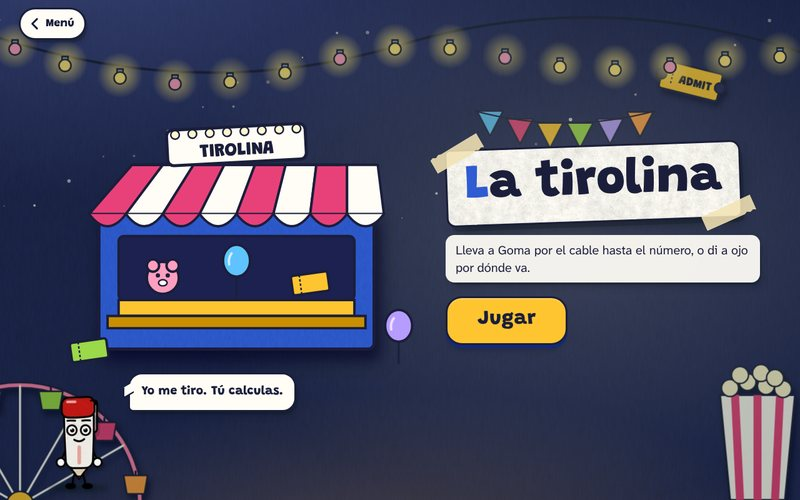
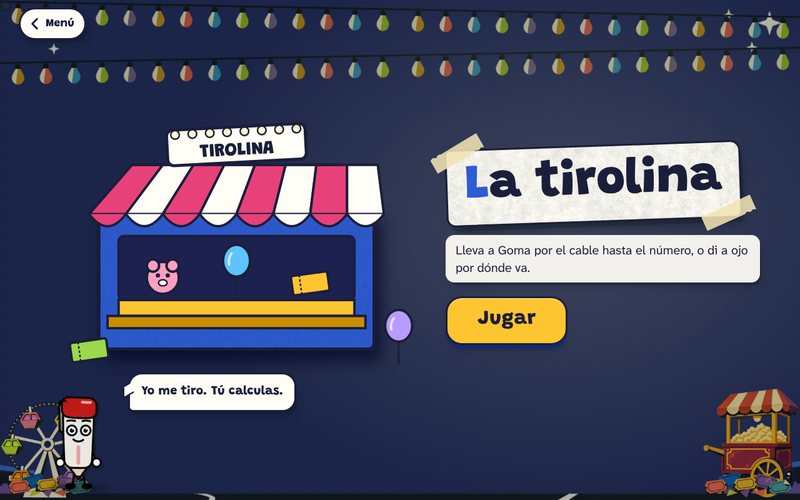
Feria de Otoño con las ilustraciones de ChatGPT: fondo nocturno por capas, peluches de premio y estantería, cuatro casetas ilustradas y Goma señalando
Claude-Session: https://claude.ai/code/session_01QUDmSgHLXgaRdHN8Km8PUg

Changed region(s): [[0.0, 0.0, 1.0, 0.21], [0.0, 0.72, 1.0, 1.0], [0.5938, 0.21, 0.8125, 0.3]]

diff --git a/public/juegos/motores/feria.css b/public/juegos/motores/feria.css
@@ -1,14 +1,21 @@
 /* =====================================================================================
    La Feria de Otoño · casetas de cartulina en el patio del cole, de noche
    ===================================================================================== */
-.fondo-escena.feria{background-color:#23285c;background-image:
-  radial-gradient(90% 70% at 50% 120%,rgba(255,180,90,.35),rgba(255,180,90,0) 60%),
-  radial-gradient(120% 90% at 10% -10%,rgba(140,150,255,.35),rgba(140,150,255,0) 55%),
-  url('tex/cartulina.webp');background-size:100% 100%,100% 100%,256px 256px;background-blend-mode:normal,normal,multiply}
+.fondo-escena.feria{background:#23285c url('feria/fondo-h.webp') center/cover;overflow:hidden}
+.capa-fer{position:absolute;left:0;right:0;background-repeat:no-repeat;background-size:100% 100%}
+.capa-fer.arriba{top:0;aspect-ratio:1920/208;background-image:url('feria/arriba-h-apagada.webp')}
+.capa-fer.arriba.luz{background-image:url('feria/arriba-h-encendida.webp');animation:luz-fer 3.6s ease-in-out infinite}
+.capa-fer.abajo{bottom:0;aspect-ratio:1920/270;background-image:url('feria/abajo-h.webp')}
+@media (orientation:portrait){
+  .fondo-escena.feria{background-image:url('feria/fondo-v.webp')}
+  .capa-fer.arriba{aspect-ratio:1080/195;background-image:url('feria/arriba-v-apagada.webp')}
+  .capa-fer.arriba.luz{background-image:url('feria/arriba-v-encendida.webp')}
+  .capa-fer.abajo{aspect-ratio:1080/257;background-image:url('feria/abajo-v.webp')}
+}
+@keyframes luz-fer{0%,100%{opacity:1}12%{opacity:.25}16%{opacity:1}55%{opacity:.55}}
+.fondo-escena.encendida .capa-fer.luz{animation:none;opacity:1}
 body[data-escena="feria"]{--acento:var(--amarillo);--acento2:#fff0c2;--acento-osc:var(--amarillo-osc)}
-.fondo-escena.feria .halo{animation:halo-fer 2.2s ease-in-out infinite alternate}
-@keyframes halo-fer{from{opacity:.35}to{opacity:1}}
-@media (prefers-reduced-motion:reduce){.fondo-escena.feria .halo{animation:none}}
+@media (prefers-reduced-motion:reduce){.capa-fer.luz{animation:none;opacity:1}}
 body[data-escena="feria"] .mesa-juego>.pista{background:rgba(255,253,246,.92)}
 
 /* ---------- el mapa de la feria: cada compartimento es una caseta con toldo y bombillas ---------- */
@@ -419,3 +426,53 @@ button.pieza-angulo:hover{transform:translateY(-3px)}
 .unidad-encargo{font-family:inherit;font-size:18px;font-weight:800}
 
 @media (max-width:640px){.colchoneta{width:max(58px,calc((100vw - 64px - (var(--n) - 1) * 22px) / var(--n)))}.arco-salto{width:22px}.cartel-colchoneta .campo-num{width:100%;min-width:0;padding:0 2px;font-size:16px}.num-colchoneta{font-size:18px;padding:3px 6px}.arco-salto>b,.signo-salto{font-size:13px;padding:1px 5px}.signo-salto .campo-num{width:4.6ch;font-size:15px}.cesta-tombola .boleto{width:84px}}
+
+/* ---------- premios de la feria: peluches en lugar de pegatinas ---------- */
+.solo-lector{position:absolute;width:1px;height:1px;overflow:hidden;clip:rect(0 0 0 0);white-space:nowrap}
+.pegatina-album.premio-feria{filter:drop-shadow(3px 4px 0 rgba(0,0,0,.3))}
+.pegatina-album.premio-feria img,.icono-album.con-premio img{width:100%;height:100%;display:block;object-fit:contain}
+.icono-album.con-premio{width:42px;height:42px;margin:-6px 0}
+.pegatina-album.premio-feria.mini{width:46px;height:46px;margin:-10px -8px -10px 0;rotate:0deg}
+.premio-pegatina .pegatina-album.premio-feria{width:132px;height:132px;margin:-18px -4px -10px}
+.aviso-pegatina .pegatina-album.premio-feria{width:120px;height:120px}
+.aviso-pegatina .nuevas{flex-wrap:wrap;justify-content:center;max-width:min(560px,86vw)}
+
+.album.album-feria{width:min(1040px,100%);background:#1c2150 url('tex/cartulina.webp');background-size:256px;background-blend-mode:multiply;color:#fffdf6;padding:16px 18px 18px}
+.album-feria .cab-album p{margin:0 0 6px;color:#fff0c2;font-weight:700}
+.cuerpo-feria{display:grid;grid-template-columns:auto minmax(220px,1fr);gap:20px;align-items:center}
+.estanteria-feria{position:relative;width:min(600px,calc((100dvh - 150px) * .75));aspect-ratio:3/4;background:url('feria/estanteria.webp') center/100% 100% no-repeat;border-radius:10px}
+.balda-feria{position:absolute;left:7%;right:7%;height:12.2%;display:flex;justify-content:space-evenly;align-items:flex-end}
+.premio-balda{position:relative;height:100%;aspect-ratio:1/1;margin:0 -1.8%;padding:0;border:0;background:none;cursor:pointer;border-radius:12px}
+.premio-balda img{display:block;width:100%;height:100%;object-fit:contain;transform:translateY(12%);transform-origin:50% 88%;transition:transform .15s}
+.premio-balda.tiene img{filter:drop-shadow(0 4px 0 rgba(0,0,0,.35))}
+.premio-balda.falta img{opacity:.55}
+.premio-balda:hover img,.premio-balda:focus-visible img{transform:translateY(12%) scale(1.12)}
+.premio-balda.elegido img{transform:translateY(12%) scale(1.18)}
+.premio-balda.elegido::after{content:"";position:absolute}
+.premio-balda:focus-visible{outline:3px solid var(--amarillo);outline-offset:2px}
+.detalle-premio{display:flex;flex-direction:column;align-items:center;gap:8px;text-align:center;padding:12px}
+.detalle-premio h3{margin:0;font-family:var(--fuerte);font-weight:900;font-size:clamp(22px,2.6vw,30px);color:#fffdf6}
+.detalle-premio p{margin:0;max-width:22em;color:#fff0c2;font-weight:700;line-height:1.35}
+.premio-grande{width:min(260px,60vw);aspect-ratio:1/1;filter:drop-shadow(5px 7px 0 rgba(0,0,0,.35))}
+.premio-grande.falta{opacity:.6;filter:none}
+.premio-grande img{width:100%;height:100%;display:block}
+.album-feria>.tecla{display:block;margin:14px auto 0}
+@media (orientation:portrait),(max-width:700px){
+  .cuerpo-feria{grid-template-columns:1fr;gap:6px}
+  .album.album-feria{padding:12px 10px 14px}
+  .estanteria-feria{width:min(100%,560px);margin:0 auto}
+  .detalle-premio{display:grid;grid-template-columns:96px 1fr;grid-template-rows:auto auto auto;column-gap:10px;row-gap:4px;align-items:center;text-align:left;padding:4px}
+  .premio-grande{width:96px;grid-row:1/4}
+  .detalle-premio h3{font-size:20px}
+  .detalle-premio p{font-size:14px}
+  .detalle-premio .tecla{justify-self:start;min-height:44px;padding:0 16px;font-size:16px}
+}
+
+/* ---------- portadas ilustradas de algunas casetas ---------- */
+.portada-arte .arte-caseta-img{position:relative;width:min(100%,720px);aspect-ratio:5/4;display:block}
+.arte-caseta-img .caseta-img{position:absolute;left:50%;top:0;height:100%;width:auto;translate:-50% 0;filter:drop-shadow(10px 16px 0 rgba(5,6,26,.45))}
+.arte-caseta-img .pieza{position:absolute;width:21%;height:auto;filter:drop-shadow(4px 7px 0 rgba(5,6,26,.45))}
+.arte-caseta-img .pz1{left:1%;top:16%;rotate:-8deg}
+.arte-caseta-img .pz2{right:2%;bottom:6%;rotate:7deg}
+.arte-caseta-img .pz3{right:4%;top:4%;width:20%;rotate:-5deg}
+@media (max-width:820px){.portada-arte .arte-caseta-img{aspect-ratio:16/11;width:min(100%,460px)}.arte-caseta-img .pieza{width:21%}}

diff --git a/public/juegos/motores/mapa.js b/public/juegos/motores/mapa.js
@@ -14,7 +14,7 @@ const guarda = (k, v) => { try { localStorage.setItem(k, v); } catch {} };
 const hecho = (slug) => !!lee('cajon-hecho:' + ruta(slug));
 const lento = () => matchMedia('(prefers-reduced-motion: reduce)').matches;
 
-import { DIBUJOS, pegatina } from './pegatinas.js';
+import { DIBUJOS, PREMIOS, imgPremio, pegatina } from './pegatinas.js';
 import { actua } from './sprites.js';
 
 export async function montaMapa(c) {
@@ -59,7 +59,7 @@ export async function montaMapa(c) {
   // ---------- cabecera: progreso y álbum
   const regla = el('div', { class: 'progreso', role: 'progressbar', 'aria-label': 'Progreso de la aventura', 'aria-valuemin': '0', 'aria-valuemax': String(comp.length), 'aria-valuenow': String(ordenados) }, el('span', { class: 'relleno', style: { width: Math.max(3, (ordenados / comp.length) * 100) + '%' } }, el('span', { class: 'punta-barra' })));
   const contador = el('b', { text: `${conseguidas.length} de ${todos.length}` });
-  const botonAlbum = el('button', { type: 'button', class: 'tecla boton-album', onclick: () => album() }, el('span', { class: 'icono-album', html: DIBUJOS[X.icono] }), el('span', {}, X.album + ' ', contador));
+  const botonAlbum = el('button', { type: 'button', class: 'tecla boton-album', onclick: () => (feria ? estanteria() : album()) }, el('span', { class: 'icono-album' + (PREMIOS[X.icono] ? ' con-premio' : ''), html: PREMIOS[X.icono] ? imgPremio(X.icono) : DIBUJOS[X.icono] }), el('span', {}, X.album + ' ', contador));
   document.body.prepend(
     el('header', { class: 'barra-juego' },
       el('a', { class: 'volver con-texto', href: c.volver || '../../', title: 'Volver al Cajón maestro' }, svg('0 0 24 24', '<path d="M15 5l-7 7 7 7" fill="none" stroke="currentColor" stroke-width="2.8" stroke-linecap="round" stroke-linejoin="round"/>', { width: 22, height: 22 }), el('span', { text: 'Cajón maestro' })),
@@ -81,6 +81,48 @@ export async function montaMapa(c) {
     if (!lento()) {
       gsap.from(hoja, { y: 60, rotation: -3, opacity: 0, duration: 0.5, ease: 'back.out(1.6)' });
       gsap.from(hoja.querySelectorAll('li.tiene .pegatina-album'), { scale: 2.2, rotation: () => gsap.utils.random(-60, 60), opacity: 0, duration: 0.45, ease: 'back.out(2)', stagger: 0.06, delay: 0.25, onStart: () => suena('pon') });
+    }
+  }
+
+  // ---------- la estantería de premios de la feria: los peluches ganados en sus baldas y, los que faltan, en silueta
+  function estanteria() {
+    suena('coge');
+    const may = (t) => t.charAt(0).toUpperCase() + t.slice(1);
+    const capa = el('div', { class: 'vineta-capa album-capa', role: 'dialog', 'aria-modal': 'true', 'aria-label': X.albumTitulo });
+    const det = el('div', { class: 'detalle-premio', 'aria-live': 'polite' });
+    const muestra = (j) => {
+      const tiene = hecho(j.slug);
+      det.replaceChildren(
+        el('div', { class: 'premio-grande' + (tiene ? '' : ' falta'), html: imgPremio(j.slug, !tiene) }),
+        el('h3', { text: tiene ? may(PREMIOS[j.slug] || j.titulo) : '¿Quién será?' }),
+        el('p', { text: tiene ? `Lo ganaste en ${j.titulo}.` : `Termina ${j.titulo} para llevártelo.` }),
+        el('a', { class: 'tecla', href: `../${j.slug}/`, text: tiene ? 'Volver a jugar' : 'Ir a la caseta' }));
+      botones.forEach((b) => b.classList.toggle('elegido', b._j === j));
+    };
+    // cuatro baldas (la tabla de abajo es la base): dónde apoyan los pies, en % desde abajo de la imagen
+    const BALDAS = [62.6, 47.8, 33.1, 18.3];
+    const reparto = [6, 6, 5, 5];
+    const filas = []; let k = 0;
+    for (const n of reparto) { filas.push(todos.slice(k, k + n)); k += n; }
+    if (k < todos.length) filas[filas.length - 1].push(...todos.slice(k));
+    const botones = [];
+    const balda = (fila, i) => el('div', { class: 'balda-feria', style: { bottom: BALDAS[i] + '%' } }, fila.map((j) => {
+      const b = el('button', { type: 'button', class: 'premio-balda ' + (hecho(j.slug) ? 'tiene' : 'falta'), 'aria-label': hecho(j.slug) ? `${PREMIOS[j.slug]}, de ${j.titulo}` : `Sin ganar: ${j.titulo}`, html: imgPremio(j.slug, !hecho(j.slug)), onclick: () => { suena('clic'); muestra(j); } });
+      b._j = j; botones.push(b); return b;
+    }));
+    const mueble = el('div', { class: 'estanteria-feria' }, filas.map(balda));
+    const hoja = el('div', { class: 'album album-feria' },
+      el('div', { class: 'cab-album' }, el('h2', { class: 'solo-lector', text: X.albumTitulo }), el('p', { text: `${conseguidas.length} de ${todos.length}. ${X.albumTexto}` })),
+      el('div', { class: 'cuerpo-feria' }, mueble, det),
+      el('button', { type: 'button', class: 'tecla primaria grande', text: 'Cerrar', onclick: () => { capa.remove(); suena('quita'); } }));
+    capa.append(hoja); document.body.append(capa);
+    capa.addEventListener('click', (e) => { if (e.target === capa) capa.remove(); });
+    const primero = nuevas[nuevas.length - 1] || conseguidas[conseguidas.length - 1];
+    if (primero) muestra(primero);
+    else det.replaceChildren(el('h3', { text: 'Todavía vacía' }), el('p', { text: 'Cada caseta terminada te da un peluche para esta estantería. Toca una silueta para ver dónde se gana.' }));
+    if (!lento()) {
+      gsap.from(hoja, { y: 60, rotation: -2, opacity: 0, duration: 0.5, ease: 'back.out(1.6)' });
+      gsap.from(mueble.querySelectorAll('.premio-balda.tiene'), { y: -120, rotation: () => gsap.utils.random(-30, 30), opacity: 0, duration: 0.5, ease: 'bounce.out', stagger: 0.05, delay: 0.3, onStart: () => suena('pon') });
     }
   }
 

diff --git a/public/juegos/motores/nucleo.js b/public/juegos/motores/nucleo.js
@@ -5,9 +5,9 @@
 import * as fx from './efectos.js';
 import { dibuja, POSES } from './personaje.js';
 import { VOCES, POSE_DE, una } from './voces.js';
-import { montaEscena, vineta, montaTeclado } from './escena.js';
+import { montaEscena, vineta, montaTeclado, enciende } from './escena.js';
 import { portada } from './portada.js';
-import { DIBUJOS, pegatina as pegatinaAlbum } from './pegatinas.js';
+import { DIBUJOS, PREMIOS, pegatina as pegatinaAlbum } from './pegatinas.js';
 export const $ = (s, r = document) => r.querySelector(s);
 const SVGNS = 'http://www.w3.org/2000/svg';
 
@@ -205,7 +205,7 @@ export async function arrancar(config, motor) {
   };
   const asistente = el('aside', { class: 'asistente', 'aria-label': 'Ayudante' }, bocadillo, el('div', { class: 'pie-asistente' }, btnAyuda, figura));
   let callaT = null;
-  const di = (texto, tipo = 'pista', ms = 0) => {
+  const di = (texto, tipo = 'pista', ms = 0, pose) => {
     clearTimeout(callaT);
     ultimaFrase = [texto, tipo, ms];
     bocadillo.className = 'bocadillo ' + tipo;
@@ -214,7 +214,7 @@ export async function arrancar(config, motor) {
     bocadillo.classList.remove('entra'); void bocadillo.offsetWidth; bocadillo.classList.add('entra');
     figura.classList.remove('habla'); void figura.offsetWidth; figura.classList.add('habla');
     if (ms) callaT = setTimeout(() => (bocadillo.hidden = true), ms);
-    posa(POSE_DE[tipo] || 'quieto', Math.max(ms || 0, 2600), 'hablar:2');
+    posa(pose || POSE_DE[tipo] || 'quieto', Math.max(ms || 0, 2600), 'hablar:2');
   };
   const dice = (clave, tipo, ms) => di(una(voz[clave]), tipo, ms);
   const calla = () => { clearTimeout(callaT); bocadillo.hidden = true; };
@@ -307,7 +307,8 @@ export async function arrancar(config, motor) {
       const darPista = () => {
         if (usadas >= pistas.length) return;
         const p = pistas[usadas++];
-        di(typeof p === 'string' ? p : p.texto, 'pista', 12000);
+        // si la pista enseña algo del tablero, el ayudante (abajo a la derecha) lo señala
+        di(typeof p === 'string' ? p : p.texto, 'pista', 12000, typeof p === 'object' && p.ver ? 'izquierda' : undefined);
         if (typeof p === 'object' && p.ver) try { p.ver(); } catch (e) { console.error(e); }
         suena('clic');
         pintaAyuda(pistas.length - usadas, pistas.length);
@@ -451,8 +452,9 @@ export async function arrancar(config, motor) {
         // la pegatina del álbum de la aventura: se ve aquí y luego vuela al álbum en el mapa
         const slug = location.pathname.split('/').filter(Boolean).pop();
         if (DIBUJOS[slug]) {
-          const premio = el('div', { class: 'premio-pegatina' }, pegatinaAlbum(slug), el('div', {}, el('b', { text: yaLaTenia ? (config.volver?.includes('feria') ? 'Tu premio de esta caseta' : 'Tu pegatina de este juego') : config.volver?.includes('feria') ? '¡Premio nuevo de la feria!' : '¡Pegatina nueva para tu álbum!' }), el('small', { text: config.volver?.includes('limpieza') ? 'La verás en el álbum del mapa.' : config.volver?.includes('feria') ? 'La verás en la estantería de premios del mapa.' : 'Ya es tuya.' })));
+          const premio = el('div', { class: 'premio-pegatina' }, pegatinaAlbum(slug), el('div', {}, el('b', { text: PREMIOS[slug] ? (yaLaTenia ? `Tu premio de esta caseta: ${PREMIOS[slug]}` : `¡Te llevas ${PREMIOS[slug]}!`) : yaLaTenia ? 'Tu pegatina de este juego' : '¡Pegatina nueva para tu álbum!' }), el('small', { text: config.volver?.includes('limpieza') ? 'La verás en el álbum del mapa.' : config.volver?.includes('feria') ? 'La verás en la estantería de premios del mapa.' : 'Ya es tuya.' })));
           final.querySelector('h2').after(premio);
+          enciende();
           premio.prepend(el('div', { class: 'baile-final', html: dibuja(quien, 'baile', { veces: 5, luego: 'celebrar' }) }));
           if (!matchMedia('(prefers-reduced-motion: reduce)').matches) premio.querySelector('.pegatina-album').animate([{ transform: 'scale(3) rotate(-50deg)', opacity: 0 }, { transform: 'scale(.9) rotate(8deg)', opacity: 1, offset: 0.7 }, { transform: 'scale(1) rotate(0)' }], { duration: 650, delay: 400, easing: 'cubic-bezier(.3,1.4,.5,1)', fill: 'both' });
           setTimeout(() => suena('sello'), 850);

diff --git a/public/juegos/motores/portada.js b/public/juegos/motores/portada.js
@@ -140,6 +140,12 @@ const ARTE = {
     <g class="sueltas">${pieza(1, 560, 360, 18)}</g></svg>`,
 };
 
+// casetas ilustradas de la feria: la caseta recortada y sus objetos sueltos (que saltan al pulsar «Jugar»)
+const FER = new URL('./feria/', import.meta.url).href;
+const CASETAS = { 'la-tombola': ['tombola', 2], 'el-candado-de-la-taquilla': ['taquilla', 3], 'la-caja-registradora': ['caja', 2], 'la-noria': ['noria', 2] };
+const casetaIlustrada = ([n, piezas], titulo) => `<div class="arte arte-caseta-img" aria-hidden="true"><img class="caseta-img" src="${FER}caseta-${n}.webp" alt="" draggable="false">
+    <div class="abertura">${Array.from({ length: piezas }, (_, i) => `<img class="pieza pz${i + 1}" src="${FER}pieza-${n}-${i + 1}.webp" alt="" draggable="false">`).join('')}</div></div>`;
+
 export function portada(config, { dibuja, POSES, quien, progreso = 0, record = null, sonar = () => {}, frase: fraseHola = '¿Jugamos?', volver = '../../' }) {
   return new Promise((listo) => {
     const lento = matchMedia('(prefers-reduced-motion: reduce)').matches;
@@ -165,7 +171,8 @@ export function portada(config, { dibuja, POSES, quien, progreso = 0, record = n
     const texto = h('div', 'portada-texto'); texto.append(etiqueta, objetivo, jugar, estado);
     const AREA = { matematicas: 'MATES', lengua: 'LENGUA', naturales: 'NATURALES', sociales: 'SOCIALES' };
     const rotulo = config.portada?.rotulo ?? (tipo === 'cajon' ? AREA[config.area] || 'CAJÓN' : '');
-    const arte = h('div', 'portada-arte', (ARTE[tipo] || ARTE.cajon)(rotulo));
+    const caseta = config.escena === 'feria' && CASETAS[location.pathname.split('/').filter(Boolean).pop()];
+    const arte = h('div', 'portada-arte', caseta ? casetaIlustrada(caseta) : (ARTE[tipo] || ARTE.cajon)(rotulo));
     const fig = h('div', 'portada-figura figura ' + quien, dibuja(quien, 'saluda', { veces: 2, luego: 'reposo' }));
     const frase = h('div', 'portada-bocadillo bocadillo');
     frase.textContent = config.portada?.frase || fraseHola;
@@ -174,6 +181,11 @@ export function portada(config, { dibuja, POSES, quien, progreso = 0, record = n
     salir.href = volver; salir.title = 'Volver al menú';
     capa.append(arte, texto, pj, salir);
     document.body.append(capa);
+    // después de saludar, señala el botón de Jugar (a la derecha o a la izquierda, según dónde quede)
+    requestAnimationFrame(() => {
+      const sp = fig.querySelector('.sprite'), a = fig.getBoundingClientRect(), b = jugar.getBoundingClientRect();
+      if (sp && a.width) sp.dataset.luego = b.left + b.width / 2 > a.left + a.width / 2 ? 'senalar_derecha:2' : 'senalar_izquierda:2';
+    });
 
     if (!lento) {
       const letras = titulo.querySelectorAll('.letra');
@@ -212,6 +224,10 @@ export function portada(config, { dibuja, POSES, quien, progreso = 0, record = n
           .to(arte.querySelector('.pieza-portada'), { x: -100, y: 80, duration: 0.4, ease: 'power2.in', onComplete: () => sonar('pon') });
       } else if (tipo === 'corcho') {
         tl.to(arte.querySelector('.gira-portada'), { rotation: 90, svgOrigin: '300 220', duration: 0.8, ease: 'power2.inOut', onStart: () => sonar('clic'), onComplete: () => sonar('pon') });
+      } else if (caseta) {
+        // la caseta se ilumina y sus objetos saltan del mostrador
+        tl.to(arte.querySelector('.caseta-img'), { filter: 'brightness(1.3) saturate(1.15)', duration: 0.18, yoyo: true, repeat: 1, onStart: () => sonar('clic') })
+          .to(arte.querySelectorAll('.abertura .pieza'), { y: -260, x: () => gsap.utils.random(-120, 120), rotation: () => gsap.utils.random(-160, 160), opacity: 0, duration: 0.6, ease: 'power2.in', stagger: 0.06 });
       } else if (tipo === 'caseta') {
         // se encienden las bombillas del rótulo, una detrás de otra, y salen volando los premios
         tl.to(arte.querySelectorAll('.bombilla-portada'), { fill: '#ffd23f', duration: 0.05, stagger: 0.05, onStart: () => sonar('clic') })

diff --git a/public/juegos/motores/sprites.js b/public/juegos/motores/sprites.js
@@ -4,18 +4,21 @@
 const BASE = new URL('./personajes/', import.meta.url).href;
 const GESTO = [125, 125, 125, 125, 125, 125];
 export const DUR = { reposo: [1600, 400, 90, 130, 100, 680], baile: Array(12).fill(100) };
-export const ACCIONES = ['reposo', 'hablar', 'pensar', 'pista', 'revisar', 'animar', 'celebrar', 'saludar', 'baile', 'escuchar', 'idea', 'esperar', 'sorpresa', 'senalar_izquierda', 'senalar_abajo'];
-const UNA_VEZ = new Set(['celebrar', 'saludar', 'idea', 'sorpresa', 'senalar_izquierda', 'senalar_abajo', 'animar', 'revisar']);
+export const ACCIONES = ['reposo', 'hablar', 'pensar', 'pista', 'revisar', 'animar', 'celebrar', 'saludar', 'baile', 'escuchar', 'idea', 'esperar', 'sorpresa', 'senalar_izquierda', 'senalar_abajo', 'senalar_derecha'];
+const UNA_VEZ = new Set(['celebrar', 'saludar', 'idea', 'sorpresa', 'senalar_izquierda', 'senalar_abajo', 'senalar_derecha', 'animar', 'revisar']);
 // fotograma que se enseña quieto si el sistema pide menos movimiento
 const QUIETO = { celebrar: 2, saludar: 2, idea: 3, sorpresa: 2, baile: 3, pista: 3, animar: 2 };
 const dur = (a) => DUR[a] ?? GESTO;
-export const url = (quien, accion) => `${BASE}${quien}-${accion}.webp`;
+// quien no tiene tira propia para señalar a la derecha usa la de la izquierda, dada la vuelta
+const PROPIAS = { senalar_derecha: ['goma'] };
+const espejo = (quien, accion) => PROPIAS[accion] && !PROPIAS[accion].includes(quien);
+export const url = (quien, accion) => `${BASE}${quien}-${espejo(quien, accion) ? 'senalar_izquierda' : accion}.webp`;
 const lento = () => matchMedia('(prefers-reduced-motion: reduce)').matches;
 
 export function sprite(quien, accion = 'reposo', { veces, luego, cls = '' } = {}) {
   if (!ACCIONES.includes(accion)) accion = 'reposo';
   const n = dur(accion).length;
-  return `<span class="sprite ${cls}" aria-hidden="true" data-quien="${quien}" data-accion="${accion}"${veces ? ` data-veces="${veces}"` : ''}${luego ? ` data-luego="${luego}"` : ''} style="background-image:url('${url(quien, accion)}');--n:${n}"></span>`;
+  return `<span class="sprite ${cls}" aria-hidden="true" data-quien="${quien}" data-accion="${accion}"${espejo(quien, accion) ? ' data-espejo' : ''}${veces ? ` data-veces="${veces}"` : ''}${luego ? ` data-luego="${luego}"` : ''} style="background-image:url('${url(quien, accion)}');--n:${n}"></span>`;
 }
 // cambiar la acción de un sprite que ya está en la página
 export function actua(nodo, accion, { veces, luego } = {}) {
@@ -25,10 +28,11 @@ export function actua(nodo, accion, { veces, luego } = {}) {
   if (veces) s.dataset.veces = veces; else delete s.dataset.veces;
   if (luego) s.dataset.luego = luego; else delete s.dataset.luego;
   s.style.backgroundImage = `url('${url(s.dataset.quien, accion)}')`;
+  s.toggleAttribute('data-espejo', !!espejo(s.dataset.quien, accion));
   s.style.setProperty('--n', dur(accion).length);
 }
 const cargadas = new Set();
-export function precarga(quien, acciones = ['reposo', 'hablar', 'pista', 'celebrar', 'animar', 'sorpresa', 'pensar', 'idea', 'saludar', 'baile']) {
+export function precarga(quien, acciones = ['reposo', 'hablar', 'pista', 'celebrar', 'animar', 'sorpresa', 'pensar', 'idea', 'saludar', 'baile', 'senalar_izquierda', 'senalar_derecha']) {
   return Promise.all(acciones.map((a) => { const u = url(quien, a); if (cargadas.has(u)) return null; cargadas.add(u); return new Promise((ok) => { const i = new Image(); i.onload = i.onerror = ok; i.src = u; }); }));
 }
 

diff --git a/public/juegos/motores/pegatinas.js b/public/juegos/motores/pegatinas.js
@@ -41,5 +41,18 @@ export const DIBUJOS = {
   'los-encargos': P(`<path d="M30 28 h32 l8 8 v38 h-40z" fill="#fffdf6" stroke="${T}" stroke-width="4" stroke-linejoin="round"/><path d="M37 44 h24 M37 52 h24 M37 60 h14" stroke="${T}" stroke-width="3" stroke-linecap="round"/>`, '#ff9fbf'),
   'el-gran-concurso': P(`<path d="M34 28 h32 v12 a16 16 0 0 1 -32 0z" fill="#ffc531" stroke="${T}" stroke-width="4"/><path d="M50 56 v10 M38 72 h24" stroke="${T}" stroke-width="5" stroke-linecap="round"/><path d="M50 32 l3 6 l6 1 l-5 4 l1 6 l-5 -3 l-5 3 l1 -6 l-5 -4 l6 -1z" fill="#fffdf6" stroke="${T}" stroke-width="1.5"/>`, '#e8417a'),
 };
-export const pegatina = (slug, cls = '') => el('span', { class: 'pegatina-album ' + cls, html: DIBUJOS[slug] ?? P('', '#ffc531') });
+// La Feria de Otoño: en vez de pegatina, un peluche de premio (cada animal lleva el objeto de su caseta y un accesorio propio)
+const RUTA = new URL('./feria/premios/', import.meta.url).href;
+export const PREMIOS = {
+  'la-tombola': 'el oso del casete', 'el-candado-de-la-taquilla': 'el gato del pañuelo', 'la-caja-registradora': 'el cerdito del cinturón', 'el-cambio': 'el mapache de las gafas lima',
+  'la-noria': 'el pulpo DJ', 'los-patitos': 'el pato del gorro', 'las-colchonetas': 'el canguro de la riñonera', 'pares-y-nones': 'los gemelos del rayo',
+  'la-bascula': 'el elefante del gorrito', 'el-martillo-de-fuerza': 'el gorila de las muñequeras', 'la-tirolina': 'el mono fotógrafo', 'la-caseta-de-los-records': 'la jirafa de la bufanda',
+  'tijeras-y-abanicos': 'el pavo de la boina', 'las-banderolas': 'el zorro de cuadros', 'la-ruleta': 'el búho del monóculo', 'los-farolillos': 'la luciérnaga de la batería',
+  'las-manzanas-de-caramelo': 'el erizo del casco', 'las-tiras-de-tickets': 'la oruga de las zapatillas', 'las-tres-cartas': 'el conejo del sombrero torcido',
+  'el-puesto-de-chapas': 'la tortuga de la antena', 'los-encargos': 'el perro de las gafas de aviador', 'el-gran-concurso': 'el león de la capa',
+};
+export const imgPremio = (slug, silueta = false) => `<img src="${RUTA}${slug}${silueta ? '-silueta' : ''}.webp" alt="${silueta ? '' : PREMIOS[slug]}" width="320" height="320" draggable="false" decoding="async">`;
+export const pegatina = (slug, cls = '') => PREMIOS[slug]
+  ? el('span', { class: 'pegatina-album premio-feria ' + cls, html: imgPremio(slug) })
+  : el('span', { class: 'pegatina-album ' + cls, html: DIBUJOS[slug] ?? P('', '#ffc531') });
 

diff --git a/public/juegos/motores/escena.js b/public/juegos/motores/escena.js
@@ -93,11 +93,19 @@ const FONDOS = {
     <rect x="60" y="760" width="170" height="120" fill="#fff" transform="rotate(-4 145 820)"/><circle cx="145" cy="768" r="12" fill="#1fb5a9" stroke="#000" stroke-width="3"/>`,
 };
 
+// la feria de noche, ilustrada: bombillas arriba (apagadas y, encima, encendidas que respiran) y la noria y las palomitas abajo
+const CAPAS = {
+  feria: '<i class="capa-fer arriba"></i><i class="capa-fer arriba luz"></i><i class="capa-fer abajo"></i>',
+};
+// encender del todo las luces del fondo (al ganar)
+export const enciende = () => document.querySelector('.fondo-escena.ilustrado')?.classList.add('encendida');
+
 const CLIP = `<svg viewBox="0 0 120 60" width="120" height="60"><path d="M10 30 h80 a14 14 0 0 0 0 -28 h-74 a9 9 0 0 0 0 18 h62" fill="none" stroke="#7d868c" stroke-width="6" stroke-linecap="round"/><circle cx="96" cy="12" r="5" fill="#fff" stroke="#000" stroke-width="2"/><circle cx="97" cy="12" r="2.4"/><path d="M30 32 l-6 22 M50 32 l6 22 M70 32 l-6 22" stroke="#000" stroke-width="3" stroke-linecap="round" class="patas"/></svg>`;
 const MANO = `<svg viewBox="0 0 400 520" width="400" height="520"><path d="M150 0 h120 v190 c0 0 40 -40 70 -10 c30 30 -20 90 -50 150 c-30 60 -80 150 -140 170 c-60 20 -120 -40 -120 -120 c0 -60 10 -120 30 -170 l40 -90z" fill="rgba(20,20,40,.32)"/><path d="M170 200 v120 M220 190 v130 M120 230 v100" stroke="rgba(20,20,40,.25)" stroke-width="40" stroke-linecap="round"/></svg>`;
 
 export function montaEscena(nombre = 'cajon', { reacciona } = {}) {
-  const capa = h('div', 'fondo-escena ' + nombre, `<svg viewBox="0 0 1600 1000" preserveAspectRatio="xMidYMid slice" aria-hidden="true">${FONDOS[nombre] || FONDOS.cajon}</svg>`);
+  // los escenarios ilustrados (imágenes por capas) van como capas de HTML; el resto, dibujados en SVG
+  const capa = CAPAS[nombre] ? h('div', 'fondo-escena ilustrado ' + nombre, CAPAS[nombre]) : h('div', 'fondo-escena ' + nombre, `<svg viewBox="0 0 1600 1000" preserveAspectRatio="xMidYMid slice" aria-hidden="true">${FONDOS[nombre] || FONDOS.cajon}</svg>`);
   document.body.prepend(capa);
   document.body.dataset.escena = nombre;
   if (quieto()) return { pausa() {}, sigue() {} };

diff --git a/public/juegos/motores/personaje.js b/public/juegos/motores/personaje.js
@@ -88,9 +88,10 @@ export const POSES = {
   asombro: { brazos: [[40, 44, -20], [40, 44, -20]], ojos: 'grande', mira: [0, 0], cejas: [-16, -16], alto: 8, boca: 'o', salto: 4 },
   borra: { brazos: [[-10, 50, 10], [-10, 50, 10]], ojos: 'cerrado', cejas: [8, 8], boca: 'mueca', lean: 10, miga: true },
 };
+POSES.izquierda = POSES.derecha = POSES.abajo = POSES.seguro;
 
 // Las poses de siempre, traducidas a las acciones de los personajes dibujados
-const ACCION_DE = { quieto: 'reposo', pista: 'pista', celebra: 'celebrar', seguro: 'hablar', piensa: 'pensar', animo: 'animar', asombro: 'sorpresa', borra: 'revisar', baile: 'baile', saluda: 'saludar', idea: 'idea', habla: 'hablar', escucha: 'escuchar', espera: 'esperar', revisa: 'revisar', abajo: 'senalar_abajo', izquierda: 'senalar_izquierda' };
+const ACCION_DE = { quieto: 'reposo', pista: 'pista', celebra: 'celebrar', seguro: 'hablar', piensa: 'pensar', animo: 'animar', asombro: 'sorpresa', borra: 'revisar', baile: 'baile', saluda: 'saludar', idea: 'idea', habla: 'hablar', escucha: 'escuchar', espera: 'esperar', revisa: 'revisar', abajo: 'senalar_abajo', izquierda: 'senalar_izquierda', derecha: 'senalar_derecha' };
 export function dibuja(tipo, pose = POSES.quieto, opciones) {
   const nombre = typeof pose === 'string' ? pose : Object.keys(POSES).find((k) => POSES[k] === pose) ?? 'quieto';
   return sprite(tipo, ACCION_DE[nombre] ?? nombre, opciones);

diff --git a/public/juegos/motores/personajes.css b/public/juegos/motores/personajes.css
@@ -22,3 +22,4 @@
 .cara-quien .sprite{width:150%;bottom:-14%}
 .vineta-figura .sprite{width:140%;bottom:-14%}
 .portada-figura .sprite{width:150%;bottom:-16%}
+.sprite[data-espejo]{transform:translateX(-50%) scaleX(-1)}
